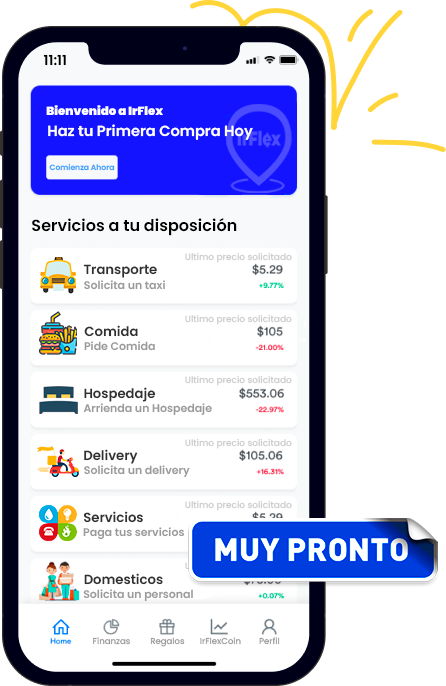
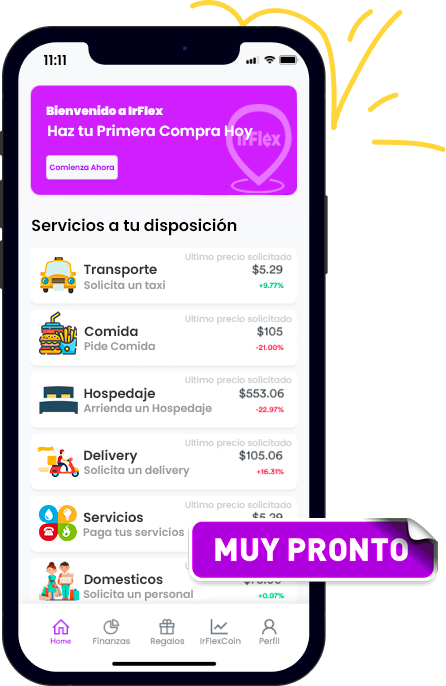
fork Media Pagina

Changed region(s): [[0.0583, 0.1224, 0.6704, 0.3061], [0.4081, 0.7347, 0.991, 0.8571], [0.1166, 0.8878, 0.1749, 0.949]]

diff --git a/components/Features/FeaturesFour.js b/components/Features/FeaturesFour.js
@@ -1,5 +1,5 @@
 import { BiLayerMinus } from "react-icons/bi";
-import { FaHatCowboySide } from "react-icons/fa";
+import { FaCoins } from "react-icons/fa";
 import { MdOutlineMobileScreenShare } from "react-icons/md";
 import { RiSecurePaymentFill } from "react-icons/ri";
 export default function FeaturesFour() {
@@ -9,10 +9,10 @@ export default function FeaturesFour() {
 				<div className="col-lg-8 ps-xl-5 pe-xl-5 col-12 offset-lg-2 text-center">
 					<div className="block-contents">
 						<div className="section-title wow fadeInUp" data-wow-duration="1s">
-							<h2>Strong new features for banking services</h2>
+							<h2>Todo lo que necesitas en una sola aplicación</h2>
 							<p>
-								In mobile banking you get all kinds of modern services It helps you focus on your core
-								business and benefit.
+							Únete al ecosistema de IrFlex y experimenta la libertad de tener un gran número de servicios
+							a tu disposición y se parte de algo grande.
 							</p>
 						</div>
 					</div>
@@ -24,27 +24,27 @@ export default function FeaturesFour() {
 								<BiLayerMinus />
 							</div>
 							<div className="service-title">
-								<h3>Credit and debit card facilities</h3>
+								<h3>Multiples servicios</h3>
 							</div>
 						</div>
 					</div>
 					<div className="col-md-6 col-xl-3">
 						<div className="strong-service-card card2">
 							<div className="icon">
-								<MdOutlineMobileScreenShare />
+								<FaCoins />
 							</div>
 							<div className="service-title">
-								<h3>Pay bills & deposit cheques online</h3>
+								<h3>Nuestra criptomoneda IrFlex Coin</h3>
 							</div>
 						</div>
 					</div>
 					<div className="col-md-6 col-xl-3">
 						<div className="strong-service-card card3">
 							<div className="icon">
-								<FaHatCowboySide />
+								<MdOutlineMobileScreenShare />
 							</div>
 							<div className="service-title">
-								<h3>Lower your overhead fees</h3>
+								<h3>Marketing de referidos</h3>
 							</div>
 						</div>
 					</div>
@@ -54,7 +54,7 @@ export default function FeaturesFour() {
 								<RiSecurePaymentFill />
 							</div>
 							<div className="service-title">
-								<h3>Privacy and secure transactions</h3>
+								<h3>Sistema de franquiciados por rango</h3>
 							</div>
 						</div>
 					</div>

diff --git a/components/HomeThree/Cta.js b/components/HomeThree/Cta.js
@@ -14,10 +14,10 @@ export default function Cta() {
                         </div>
                         <div className="text-center text-xl-start col-xl-6 order-1 order-xl-2">
                             <div className="cta-contents pe-lg-5">
-                                <h2 className="wow fadeInUp">Download & explore best online banking</h2>
-                                <p className="wow fadeInUp" data-wow-delay=".3s">Easily download and use the most efficient online banking app. Make banking easier and faster.</p>
-                                <a href="#" className="app-download-btn wow fadeInUp" data-wow-delay=".6s"><img src="/img/apple.png" alt="" /></a>
-                                <a href="#" className="app-download-btn wow fadeInUp" data-wow-delay=".8s"><img src="/img/android.png" alt="" /></a>
+                                <h2 className="wow fadeInUp">Muy pronto descargaras nuestra App</h2>
+                                <p className="wow fadeInUp" data-wow-delay=".3s">Mantente atento! Pronto podrás descargar la aplicación de IrFlex, estamos trabajando para agregar aún más funciones y mejorar tu experiencia.</p>
+                                {/*<a href="#" className="app-download-btn wow fadeInUp" data-wow-delay=".6s"><img src="/img/apple-esp.png" alt="" /></a>
+                                <a href="#" className="app-download-btn wow fadeInUp" data-wow-delay=".8s"><img src="/img/android-esp.png" alt="" /></a>*/}
                             </div>
                         </div>
                     </div>

diff --git a/components/HomeThree/ContentBlockOne.js b/components/HomeThree/ContentBlockOne.js
@@ -13,7 +13,7 @@ export default function ContentBlockOne() {
 					<div className="col-xl-6 mt-5 mt-xl-0 offset-xl-1 ps-xl-5">
 						<div className="block-contents">
 							<div className="section-title mb-4 wow fadeInUp" data-wow-duration="1s" data-wow-delay=".1s">
-								<h2>Smart banking app that you must like</h2>
+								<h2>IrFlex Coin la criptomoneda del Ecosistema</h2>
 							</div>
 							<p className="wow fadeInUp" data-wow-duration="1s" data-wow-delay=".3s">
 								Online and mobile banking makes handling your finances easier and more convenient, but

diff --git a/components/Hero/Hero.js b/components/Hero/Hero.js
@@ -25,7 +25,7 @@ export default function Hero() {
 						</div>
 						<div className="col-xl-5 col-12 text-xl-end col-lg-10 offset-lg-1 offset-xl-0">
 							<div className="hero-mobile mt-5 mt-xl-0">
-								<img src="img/mobile-hero2.png" alt="Irflex app" />
+								<img src="img/mobile-hero2.png" alt="IrflexApp" />
 							</div>
 						</div>
 					</div>

diff --git a/styles/scss/_services.scss b/styles/scss/_services.scss
@@ -55,7 +55,7 @@
 
 .strong-service-card {
     position: relative;
-    background: #4243DC;
+    background: #cf3af5;
     padding: 40px;
     padding-top: 50px;
     border-radius: 10px;
@@ -86,7 +86,7 @@
     }
 
     &.card2 {
-        background: #EF2469;
+        background: #8c0de7;
     }
 
     &.card3 {

diff --git a/styles/scss/_header.scss b/styles/scss/_header.scss
@@ -183,8 +183,8 @@ header {
 			font-size: 18px;
 			font-weight: 500;
 			margin-left: 40px;
-			background-color: #ffd44b;
-			border-color: #ffd44b;
+			background-color: #ecc65a;
+			border-color: #ecc65a;
 
 			@media (max-width: 1400px) {
 				font-size: 14px;

diff --git a/styles/scss/_variables.scss b/styles/scss/_variables.scss
@@ -20,7 +20,8 @@ $section-bg: rgba(#02021E, 0.02);
 $section-bg-black: #02021E;
 $section-bg-2 : #E5E5E5;
 
-$theme-color: #1A1AFF;
+$theme-color: #b11aff;
+//$theme-color: #1A1AFF;
 $second-color: #080F1E;
 
 $heading-color: #202124;
